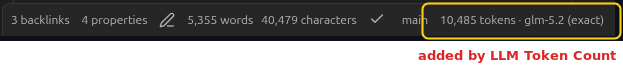
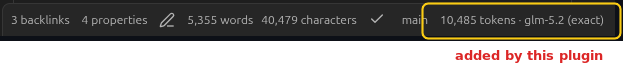
rename display: LLM Token Count -> Obsidian LLM Token Count (align with repo name)
README title, manifest.json name, and install step updated. Image
caption shortened to 'added by this plugin' (full name overflowed the
623px canvas). Re-tagging v1.0.0 to this commit.

Changed region(s): [[0.6709, 0.6944, 1.0, 0.8889]]

diff --git a/README.md b/README.md
@@ -1,4 +1,4 @@
-# LLM Token Count
+# Obsidian LLM Token Count
 
 **Real LLM token counts for GLM, GPT, Qwen & DeepSeek in Obsidian's status bar — so you know if a note fits the context budget before you send it.**
 
@@ -19,7 +19,7 @@ The token count appears in the status bar alongside Obsidian's built-in word and
 
 1. Download [`main.js`](https://raw.githubusercontent.com/hardes11/obsidian-llm-token-count/main/main.js), [`manifest.json`](https://raw.githubusercontent.com/hardes11/obsidian-llm-token-count/main/manifest.json), and [`styles.css`](https://raw.githubusercontent.com/hardes11/obsidian-llm-token-count/main/styles.css).
 2. Place them in your vault at `.obsidian/plugins/obsidian-llm-token-count/`.
-3. In Obsidian: **Settings → Community plugins**, reload the plugin list, enable **LLM Token Count**.
+3. In Obsidian: **Settings → Community plugins**, reload the plugin list, enable **Obsidian LLM Token Count**.
 
 On first use with a HuggingFace-sourced model (GLM, Qwen, DeepSeek), the plugin fetches the tokenizer and caches it locally. The first count takes a few seconds; every count after is instant.
 